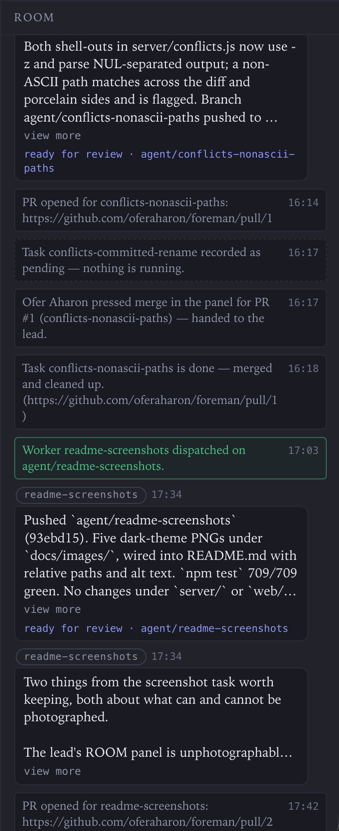
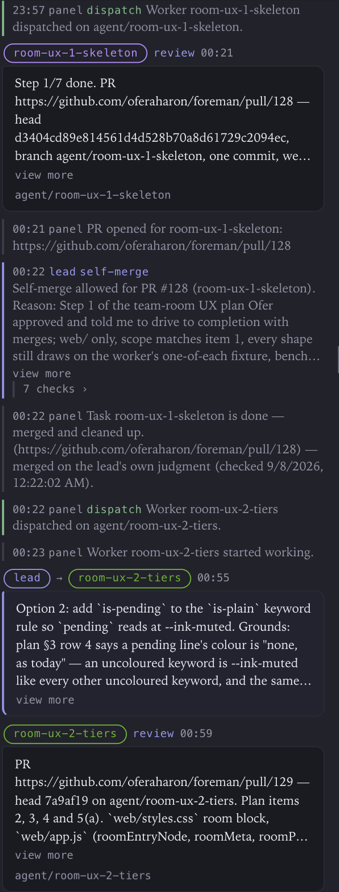
Docs: the team room's three tiers
docs/team.md's room section and CLAUDE.md's "three shapes" paragraph
described the pre-redesign room (framed system cards, laned bubbles,
a lone escalation card). Rewrite both for the three loudness tiers
that shipped in #128-#130: machinery as coloured log rows, talk as
full-width peer-hue bubbles, and one red needs-you card shared by
escalations and alerts. Say what folds (five-line view more, self-merge
checks behind N checks ›) and what never does (an escalation's question,
options and recommendation).

Re-shoot docs/images/team-room.png against the redesigned room and
rewrite its alt text to match, sentence by sentence, against a scratch
panel fed a curated window of this repo's own room log (sandbox alpha,
an isolated tmux server, no other project ever in view).

docs/panel.md and README.md don't describe the room's shape, so neither
needed a change.

Claude-Session: https://claude.ai/code/session_01Pm64jLNxoqjMynfc4aN6AK

diff --git a/docs/team.md b/docs/team.md
@@ -156,29 +156,60 @@ isolation is structural, not a matter of workers behaving well. Everything is re
 one stream so there is one place to watch, with system lines (dispatched, blocked, went
 idle, PR opened) styled apart from workers' own words.
 
-Two of those machinery lines are coloured, both in tokens the panel already uses
-elsewhere: **a dispatch is green** — a worker starting is the one piece of machinery that
-is good news — and **two workers on one file stays amber**. Everything else is the plain
-grey card. The colour comes from what the poster said the line *is* (`event: 'dispatch'`
-on the entry), never from reading its sentence, so rewording the message cannot silently
-turn the colour off.
+The room reads as three tiers of loudness rather than one flat list of identical cards.
+Every entry gets a marker, an author line and a body; how loud it gets is carried by shape
+alone, never by a step in the type size.
 
-![The room, read top to bottom: a worker's report as a bubble, folded to five lines behind a
-quiet view more and tagged ready for review with its branch; four grey system cards — a PR
-opened, a task recorded pending, a merge, a task closed; the green line where the next
-worker was dispatched; that worker's own two bubbles, each named and timestamped and each
-folded; and a last grey card for the PR it opened.](images/team-room.png)
+**Machinery** — dispatched, blocked, went idle, PR opened, a task closed — draws as a
+one-line log row: time, author, a one-word keyword, the sentence, with a 2px rule down the
+left gutter carrying whatever colour the line has. A dispatch is green — a worker starting
+is the one piece of machinery that is good news — two workers on one file stays amber, and
+a task merely recorded but not yet started is a dashed grey rule, quieter than the default
+rather than louder. A lead merging on its own judgment is the accent colour, the same one
+the panel spends on authority everywhere else. Everything else — including the four
+commonest machinery shapes, a task closing, a PR opening, a worker starting, a worker's
+model — gets a keyword and no colour at all: a hue here means *look at this*, and routine
+bookkeeping is the opposite of that. The colour comes from what the poster said the line
+*is* (`event: 'dispatch'` on the entry, or `kind: 'conflict'`), never from reading its
+sentence, so rewording the message cannot silently turn a colour off.
+
+**Talk** — a worker's own words — draws as a full-width bubble, in the same style the
+panel's own [rooms](panel.md#rooms) already use: one stable colour per speaker, carried on
+its pill and nowhere else, so a worker is recognisable by colour before its name is read.
+The lead's own line is the one exception — an accent left edge and a faint accent tint
+instead of a hue — and when it is addressed at a worker (`lead → [worker]`) the recipient
+is drawn in that worker's own colour, so the same worker reads the same hue whichever end
+of the line it's on. What gives the bubbles any traffic at all is that a worker's report is
+posted **as the worker** — `from: <task id>`, `kind: 'status'` — rather than as a system
+line from `panel` about it, which is how a multi-paragraph summary used to arrive dressed
+as one-line machinery. `report: 'review'` on the entry carries the fact that it *is* the
+done report, shown as a `review` or `plan` tag beside the author's name; the lead reads it
+back out of `room_read`.
+
+**Needs you** — an escalation or an alert — is the one framed, tinted card left in the
+room, and the only red anywhere in it; red is a budget and this is the whole of it. The two
+share the shape and are told apart only by who's speaking: an escalation is a worker, an
+alert is `panel`.
+
+![The room, read top to bottom: a green dispatch line, a worker's report folded to five
+lines behind a quiet view more and tagged review with its branch, a grey PR-opened line, an
+accent self-merge line folded behind 7 checks ›, a grey task-closed line, a second green
+dispatch line, a plain started-working line, a lead → worker line addressed to that
+worker's own coloured pill, and the start of that worker's own report bubble.](images/team-room.png)
 
 **A long entry folds to five lines.** A worker's DONE report runs to several paragraphs
 and this panel is 340px read beside the conversation with the lead — one report used to be
-the whole room. Bubbles and system cards clamp, with a quiet `view more` inside the entry;
-what fits keeps its own height and grows no control at all, because whether an entry
-overflows is measured rather than guessed at from its length. **Escalations and alerts
-never fold** — they are the two things here that need you, and hiding four fifths of a
-decision behind a control is the failure the loud card exists to prevent. Opening one
-leaves the reader exactly where they were and does not count as scrolling away; what is
-open is remembered by the entry, so the next arriving line does not fold it back under
-whoever is reading it.
+the whole room. Bubbles and machinery sentences both clamp, with a quiet `view more` inside
+the entry; what fits keeps its own height and grows no control at all, because whether an
+entry overflows is measured rather than guessed at from its length. **A self-merge's own
+evidence list folds the same way**, behind a quiet `N checks ›`, closed by default — five
+of them once cost a third of this panel's height on their own, in front of you every time
+whether or not you were looking. On an escalation, only its `grounds` and what it's doing
+meanwhile clamp; the question, its options and its recommendation stay open always, because
+hiding four fifths of a decision behind a control is the exact failure the loud card exists
+to prevent. Opening any of these leaves the reader exactly where they were and does not
+count as scrolling away; what is open is remembered by the entry, so the next arriving line
+does not fold it back under whoever is reading it.
 
 The room is a log, not a transport: workers write to it and never read it, because
 lead→worker already has a better channel — a message dripped into the worker's actual

diff --git a/CLAUDE.md b/CLAUDE.md
@@ -1965,14 +1965,24 @@ reported. The exits all land before any relaunch, which costs a window where the
 down and buys reusing `restoreSessions` unchanged — its skip-what-is-already-live rule is
 also what handles the sessions the guard refused to touch.
 
-**The room reads as three shapes**, all left-aligned: framed system cards (amber for a
-conflict), speech bubbles laned by direction for anyone actually talking, and the loud
-escalation card. What gives the bubbles any traffic at all is that a worker's report is
-posted **as the worker** — `from: <task id>`, `kind: 'status'` — rather than as a `system`
-line from `panel` about it, which is how a multi-paragraph summary used to arrive dressed as
-one-line machinery. `report: 'review'` on the entry carries the fact that it *is* the done
-report; the lead reads it out of `room_read`, the card draws it under the bubble. Everything
-else in the room is machinery and stays `system`.
+**The room reads as three tiers of loudness, not three shapes any more.** Tier 1
+(`system`, `conflict`) is a git-log row: a 2px gutter carries the colour a frame used to
+carry, keyed on `event` — green for a dispatch, amber for a conflict, dashed grey for a
+task merely `pending`, accent for a lead's own self-merge, plain `--ink-muted` for
+everything else, the four server-stamped events (`closed`, `pr`, `started`, `model`)
+included. Tier 2 (`chat`, `status`, `answer`, legacy `link`) is the panel's own rooms
+bubble, full column width, one `--peer-N` hue per speaker on the pill and nowhere else; the
+lead's line keeps the accent edge and 7% tint instead of a hue, and a `lead → [worker]`
+line draws the recipient as that worker's own pill, from the same `roomPill` function both
+ends of the line go through. What gives the bubbles any traffic at all is that a worker's
+report is posted **as the worker** — `from: <task id>`, `kind: 'status'` — rather than as a
+`system` line from `panel` about it, which is how a multi-paragraph summary used to arrive
+dressed as one-line machinery. `report: 'review'` on the entry carries the fact that it
+*is* the done report, shown as a `review`/`plan` tag in the author line; the lead reads it
+out of `room_read`. Tier 3 (`escalation`, `alert`) is the one framed, tinted, red card
+left — the two share it and are told apart only by the author line and tag, a worker's name
+against `panel`. A self-merge's own evidence list folds behind `N checks ›`, closed by
+default. Everything else in the room is machinery and stays `system`.
 
 **Row and header controls**: `⧉` duplicates a session into the same folder, the bin `/exit`s
 one behind a confirmation, a folder icon opens the project in Finder, and `recent` drops the
